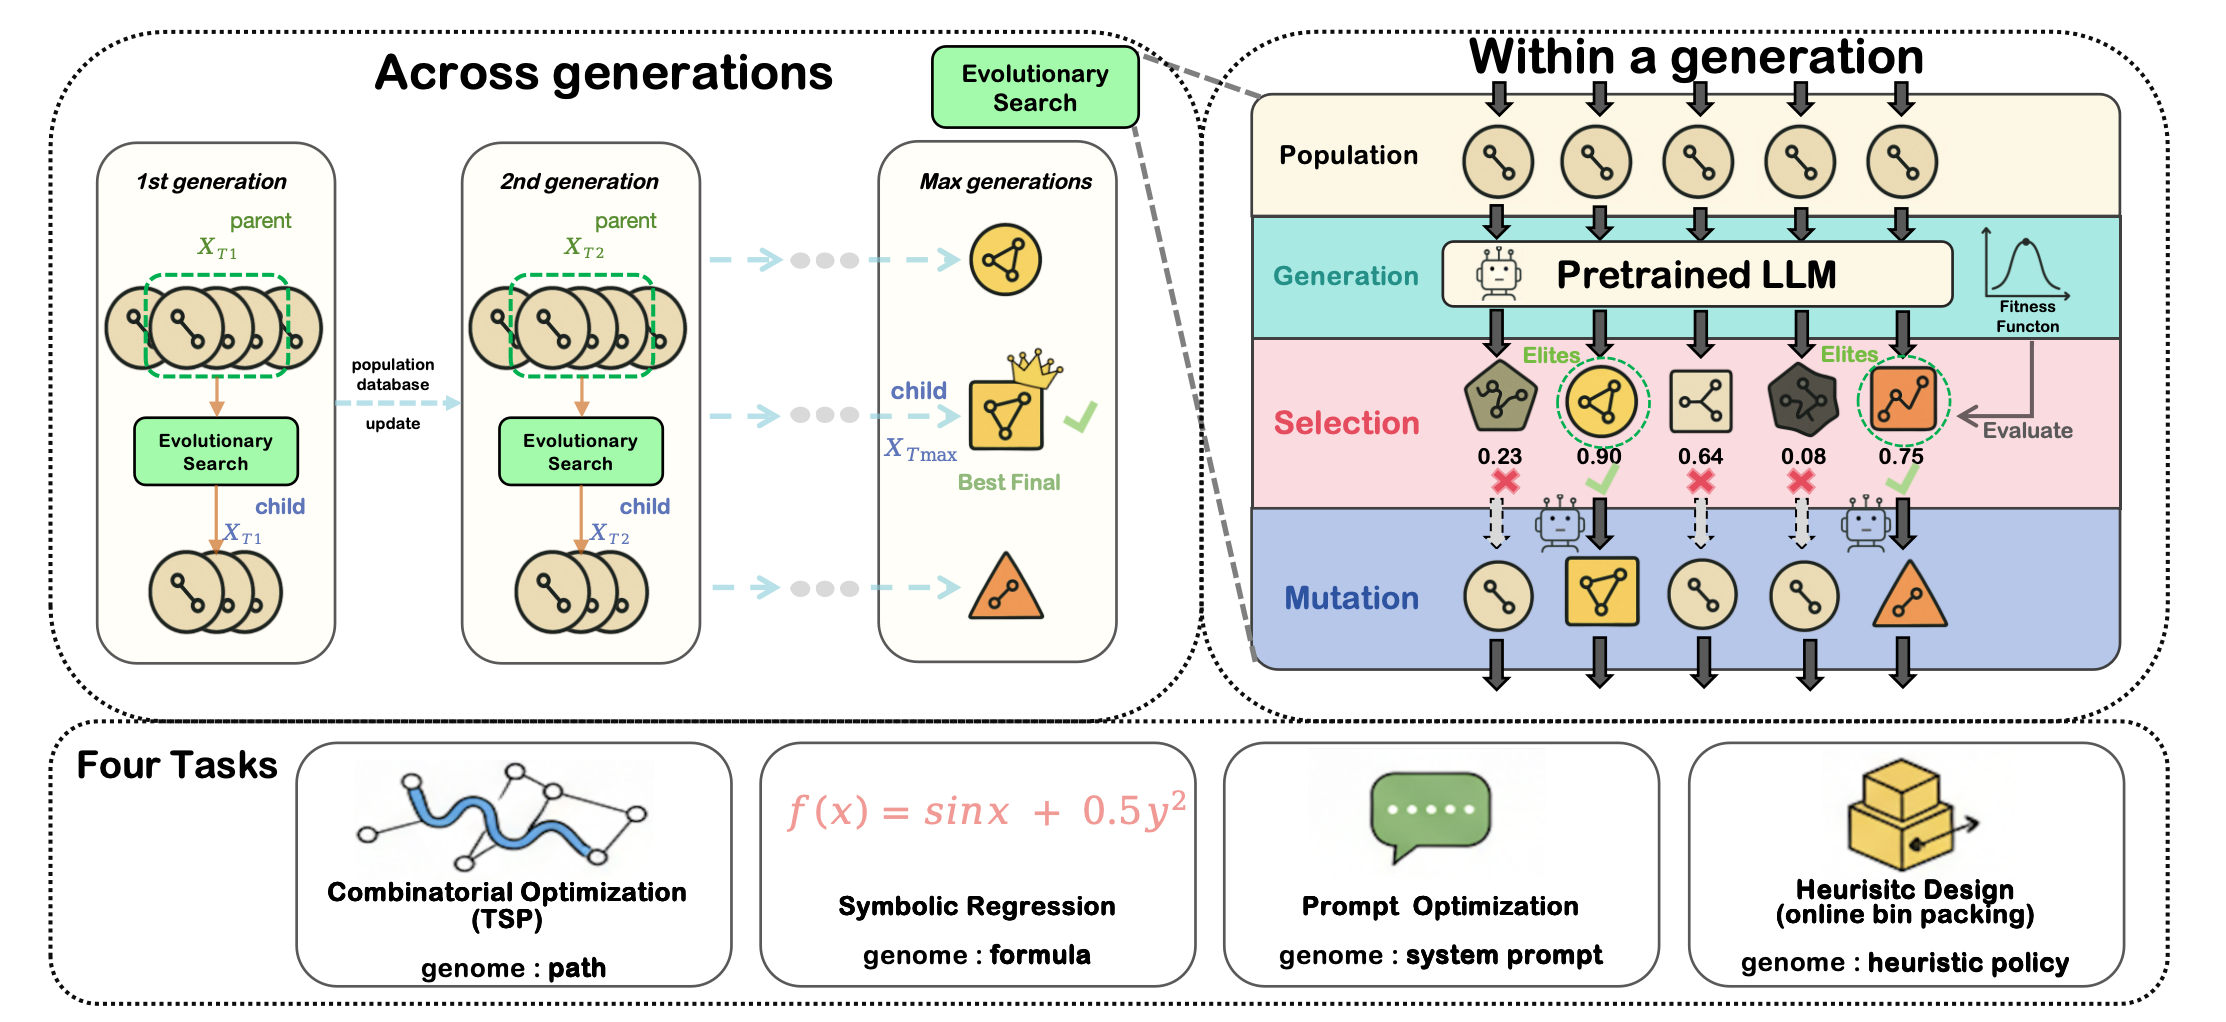
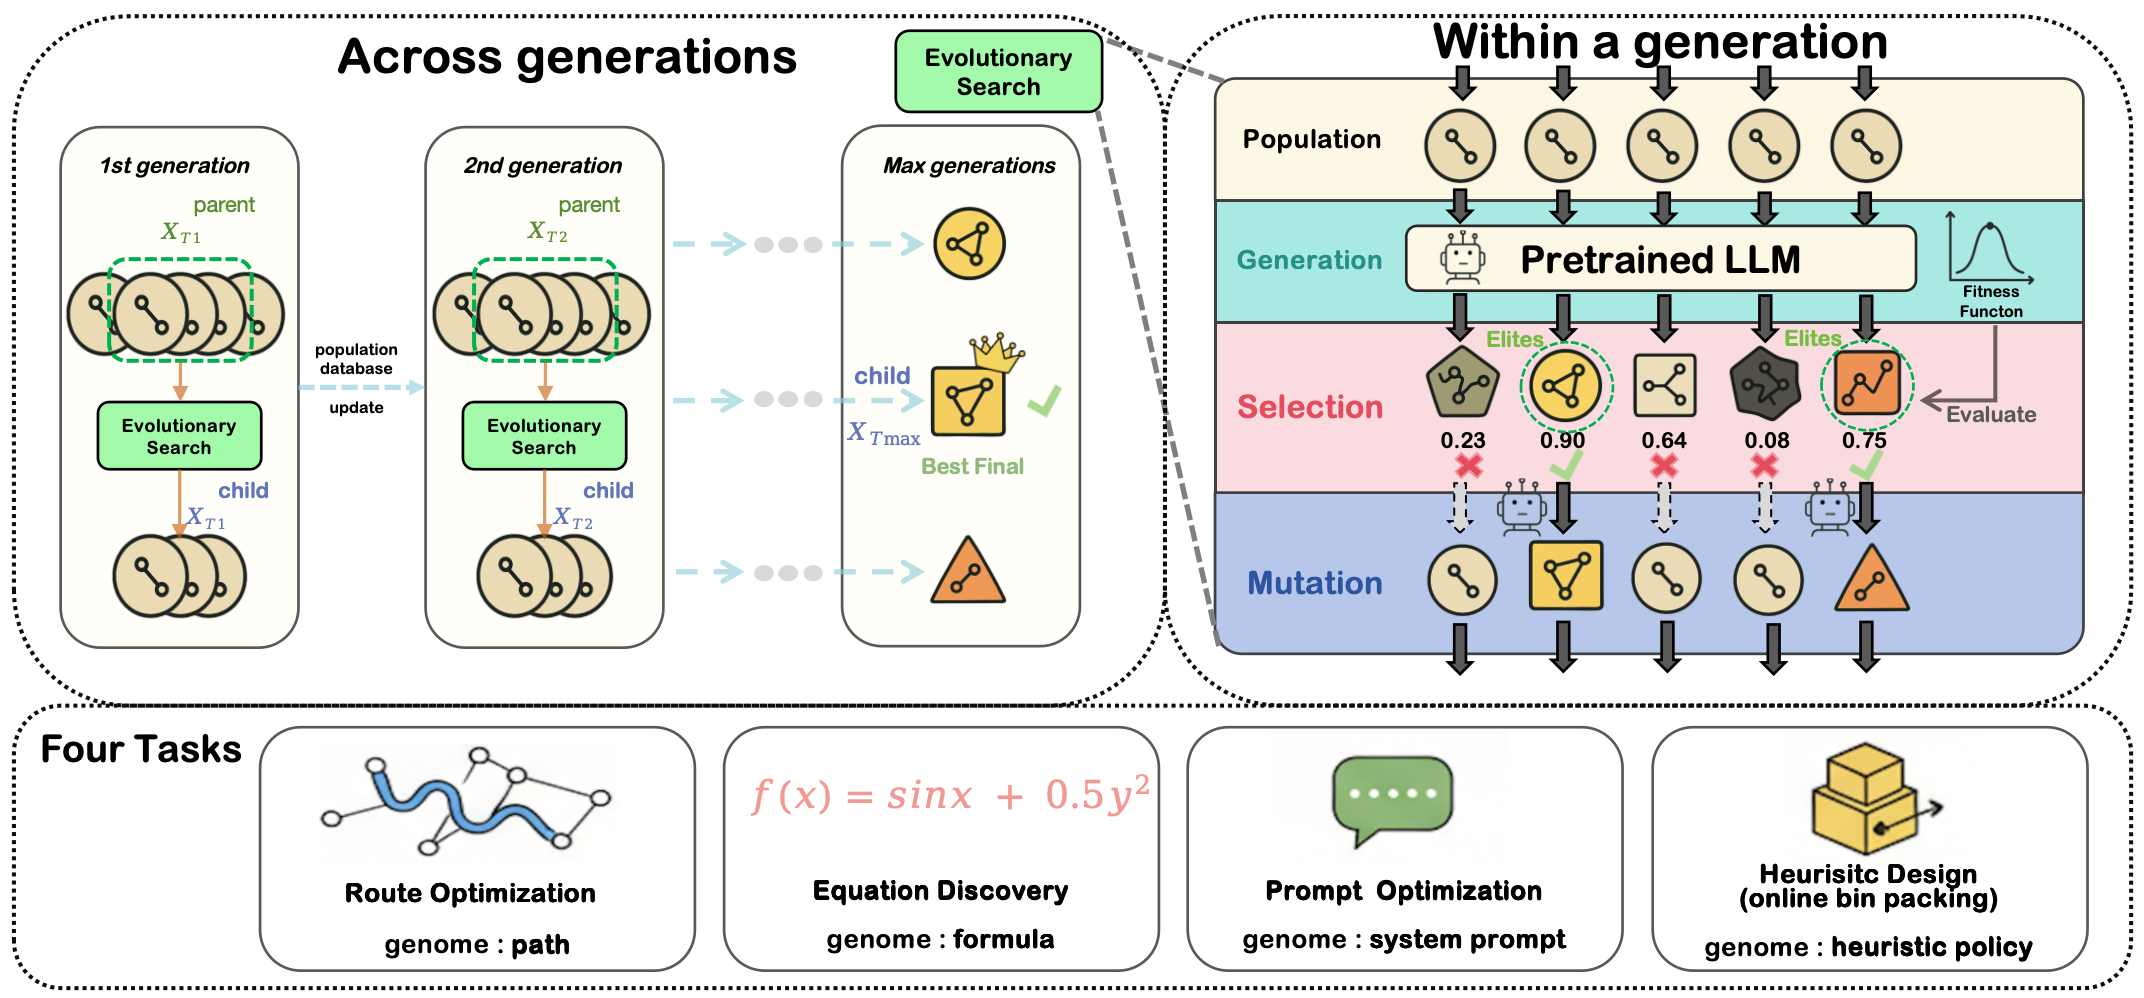
fix : rewrite task families image

Changed region(s): [[0.0, 0.0, 1.0, 0.994], [0.9688, 0.7455, 1.0, 0.9008], [0.4688, 0.6212, 0.5, 0.6523]]

diff --git a/index.html b/index.html
@@ -288,7 +288,7 @@
           <p class="has-text-justified" style="margin: 0; padding: 1rem 0 0 0; font-size: 1rem; line-height: 1.5;">
             <strong>LLM-guided evolutionary optimization framework.</strong> 
             We study LLM optimization across generations (left) and within individual generations (right). 
-            Our evaluation covers four task families: combinatorial optimization (TSP), symbolic regression, 
+            Our evaluation covers four task families: route optimization (TSP), equation discovery (symbolic regression), 
             prompt optimization, and heuristic design (online bin packing).
           </p>
         </div>
